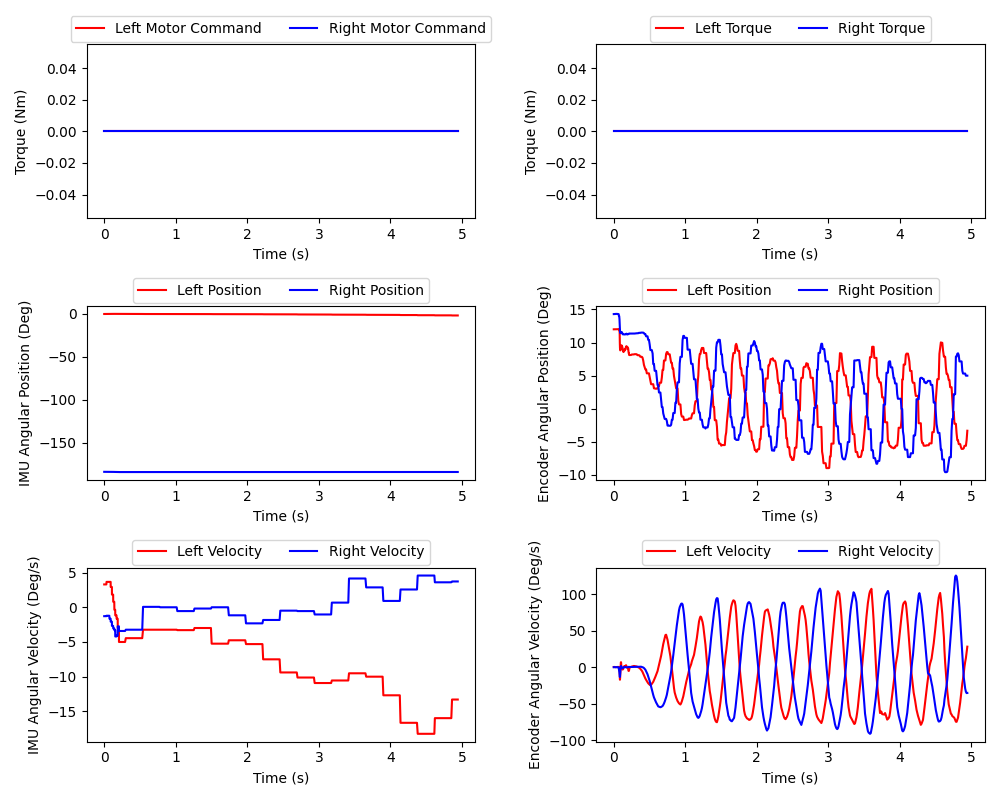
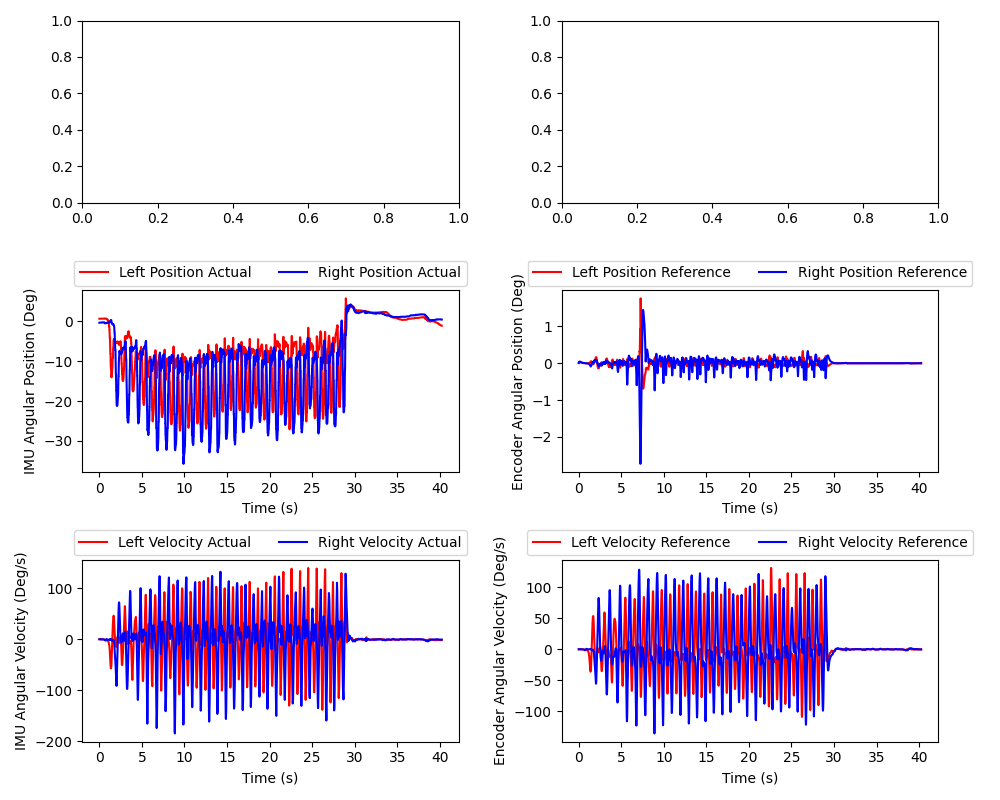
update all

diff --git a/plot_figs_leo.py b/plot_figs_leo.py
@@ -8,7 +8,7 @@ from math import *
 # file_path = 'IMU_reading/imu_Serial_Python/imu_data.csv' 
 # file_path = 'RL_Controller_torch/imu_data.csv' 
 # file_path = 'data/imu_comparison.csv'  
-file_path = 'data/Leo/Without_IMU/Zhimin/'
+file_path = 'data/Leo/Without_IMU/Zhimin/20241211-120727-Zhimin-Walk-S0x75-Trail02.csv'  
 
 # Initialize lists for each column
 time = []
@@ -18,13 +18,13 @@ L_cmd = []
 R_cmd = []
 R_IMU_angle = []
 L_IMU_angle = []
-L_IMU_vel = []
-R_IMU_vel = []
-L_encoder = []
-R_encoder = []
-L_encoder_vel = []
-R_encoder_vel = []
-R_est_torque  = []
+L_IMU_Vel = []  
+R_IMU_Vel = []  
+L_Ref_Ang = []   
+R_Ref_Ang = []   
+L_Ref_Vel = []   
+R_Ref_Vel = []   
+Peak  = []
 
 # Read the CSV file
 with open(file_path, 'r') as csvfile:
@@ -35,65 +35,64 @@ with open(file_path, 'r') as csvfile:
     
     # Extract data row by row
     for row in csvreader:
-        time.append(float(row[0]))    
-        L_IMU_angle.append(float(row[1])) 
-        R_IMU_angle.append(float(row[2])) 
-        L_IMU_vel.append(float(row[3])) 
-        R_IMU_vel.append(float(row[4])) 
-        L_encoder.append(float(row[5]))
-        R_encoder.append(float(row[6]))
-        L_encoder_vel.append(float(row[7]))
-        R_encoder_vel.append(float(row[8]))    
-        L_cmd.append(-1 * float(row[9]))     
-        R_cmd.append(float(row[10]))
-        L_torque.append(float(row[11]))
-        R_torque.append(float(row[12]))
+        print("length :", len(row))
+        time.append(float(row[11]))    
+        L_IMU_angle.append(float(row[0])) 
+        R_IMU_angle.append(float(row[1]))   
+        L_IMU_Vel.append(float(row[2])) 
+        R_IMU_Vel.append(float(row[3])) 
+        L_cmd.append(-1 * float(row[4]))     
+        R_cmd.append(float(row[5]))
+        L_Ref_Ang.append(float(row[6]))
+        R_Ref_Ang.append(float(row[7]))
+        L_Ref_Vel.append(float(row[8]))
+        R_Ref_Vel.append(float(row[9]))    
 
 # Create subplots
 fig, axs = plt.subplots(3, 2, figsize=(10, 8))
 
-#R_est_torque = 0.35*6.4*9.81*sin(R_encoder)
+#Peak = 0.35*6.4*9.81*sin(R_Ref_Ang)
 
-# Plotting the data
-axs[0, 0].plot(time, L_cmd, label='Left Motor Command', color='red') 
-axs[0, 0].plot(time, R_cmd, label='Right Motor Command', color='blue') 
-# axs[0, 0].set_title('Left Limb')    
-axs[0, 0].legend(loc='upper center', bbox_to_anchor=(0.5, 1.20), ncol=2) 
-axs[0, 0].set_xlabel('Time (s)')  
-axs[0, 0].set_ylabel('Torque (Nm)')  
+# # Plotting the data
+# axs[0, 0].plot(time, L_cmd, label='Left Motor Command', color='red') 
+# axs[0, 0].plot(time, R_cmd, label='Right Motor Command', color='blue') 
+# # axs[0, 0].set_title('Left Limb')    
+# axs[0, 0].legend(loc='upper center', bbox_to_anchor=(0.5, 1.20), ncol=2) 
+# axs[0, 0].set_xlabel('Time (s)')  
+# axs[0, 0].set_ylabel('Torque (Nm)')  
 
-# axs[0, 1].plot(time, R_cm, label='Right Motor Command', color='red')
-axs[0, 1].plot(time, L_torque, label='Left Torque', color='red')
-axs[0, 1].plot(time, R_torque, label='Right Torque', color='blue')
-# axs[0, 1].set_title('Right Limb')     
-axs[0, 1].legend(loc='upper center', bbox_to_anchor=(0.5, 1.20), ncol=2) 
-axs[0, 1].set_xlabel('Time (s)')  
-axs[0, 1].set_ylabel('Torque (Nm)')  
+# # axs[0, 1].plot(time, R_cm, label='Right Motor Command', color='red')
+# axs[0, 1].plot(time, L_cmd, label='Left Torque', color='red')
+# axs[0, 1].plot(time, R_cmd, label='Right Torque', color='blue')
+# # axs[0, 1].set_title('Right Limb')     
+# axs[0, 1].legend(loc='upper center', bbox_to_anchor=(0.5, 1.20), ncol=2) 
+# axs[0, 1].set_xlabel('Time (s)')  
+# axs[0, 1].set_ylabel('Torque (Nm)')  
 
-axs[1, 0].plot(time, L_IMU_angle, label='Left Position', color='red')
-axs[1, 0].plot(time, R_IMU_angle, label='Right Position', color='blue')
+axs[1, 0].plot(time, L_IMU_angle, label='Left Position Actual', color='red')  
+axs[1, 0].plot(time, L_Ref_Ang, label='Left Position Reference', color='blue')
 # axs[1, 0].set_title('Angular Position (IMU)')
 axs[1, 0].legend(loc='upper center', bbox_to_anchor=(0.5, 1.20), ncol=2) 
 axs[1, 0].set_xlabel('Time (s)')  
 axs[1, 0].set_ylabel('IMU Angular Position (Deg)')   
 
-axs[1, 1].plot(time, L_encoder, label='Left Position', color='red')
-axs[1, 1].plot(time, R_encoder, label='Right Position', color='blue')
+axs[1, 1].plot(time, R_IMU_angle, label='Right Position Reference', color='red')
+axs[1, 1].plot(time, R_Ref_Ang, label='Right Position Reference', color='blue')
 # axs[1, 1].set_title('Angular Position (encoder)') 
 # axs[1, 1].set_title('Angular Position (IMU)')
 axs[1, 1].legend(loc='upper center', bbox_to_anchor=(0.5, 1.20), ncol=2) 
-axs[1, 1].set_xlabel('Time (s)')  
-axs[1, 1].set_ylabel('Encoder Angular Position (Deg)')      
+axs[1, 1].set_xlabel('Time (s)')   
+axs[1, 1].set_ylabel('Encoder Angular Position (Deg)')       
 
-axs[2, 0].plot(time, L_IMU_vel, label='Left Velocity', color='red')
-axs[2, 0].plot(time, R_IMU_vel, label='Right Velocity', color='blue')
+axs[2, 0].plot(time, L_IMU_Vel, label='Left Velocity Actual', color='red')
+axs[2, 0].plot(time, L_Ref_Vel, label='Left Velocity Reference', color='blue')  
 # axs[2, 0].set_title('Angular Velocity (IMU)') 
 axs[2, 0].legend(loc='upper center', bbox_to_anchor=(0.5, 1.20), ncol=2) 
 axs[2, 0].set_xlabel('Time (s)')  
 axs[2, 0].set_ylabel('IMU Angular Velocity (Deg/s)')      
 
-axs[2, 1].plot(time, L_encoder_vel, label='Left Velocity', color='red')
-axs[2, 1].plot(time, R_encoder_vel, label='Right Velocity', color='blue')
+axs[2, 1].plot(time, R_IMU_Vel, label='Left Velocity Reference', color='red')
+axs[2, 1].plot(time, R_Ref_Vel, label='Right Velocity Reference', color='blue')
 # axs[2, 1].set_title('Angular Velocity (encoder)')
 # axs[2, 1].legend() 
 axs[2, 1].legend(loc='upper center', bbox_to_anchor=(0.5, 1.20), ncol=2) 

diff --git a/filter_process.py b/filter_process.py
@@ -1,0 +1,74 @@
+import numpy as np
+from math import pi, tan, sin, cos
+
+def butterworth_filter(data, cutoff, fs, order=4, filter_type='low'):
+    """
+    实现 Butterworth 滤波器
+    :param data: 输入信号
+    :param cutoff: 截止频率（Hz）
+    :param fs: 采样率（Hz）
+    :param order: 滤波器阶数
+    :param filter_type: 滤波器类型，'low' 为低通，'high' 为高通
+    :return: 滤波后的信号
+    """
+    # 归一化截止频率
+    nyquist = 0.5 * fs
+    normalized_cutoff = cutoff / nyquist
+
+    # 预包络变换 (Pre-warping)
+    omega = tan(pi * normalized_cutoff)
+
+    # 计算滤波器系数 (Butterworth 特性)
+    poles = []
+    for k in range(order):
+        angle = (2 * k + 1) * pi / (2 * order)
+        poles.append(complex(-omega * sin(angle), omega * cos(angle)))
+
+    # 系数计算 (差分方程)
+    a = [1.0]
+    for p in poles:
+        a = np.convolve(a, [1.0, -2.0 * p.real, abs(p)**2])
+
+    b = [omega**order]  # 滤波器增益
+
+    # 数字化滤波器（双线性变换）
+    if filter_type == 'high':
+        a = a[::-1]
+        b = [-b[0] if i % 2 else b[0] for i in range(len(a))]
+
+    a = np.real(a).tolist()
+    b = np.real(b).tolist()
+
+    # 滤波计算（IIR Filter）
+    y = np.zeros_like(data)
+    x = np.array(data)
+
+    for i in range(len(data)):
+        y[i] = sum(b[j] * x[i - j] for j in range(len(b)) if i - j >= 0) \
+             - sum(a[j] * y[i - j] for j in range(1, len(a)) if i - j >= 0)
+    return y
+
+
+# 测试代码
+if __name__ == "__main__":
+    import matplotlib.pyplot as plt
+
+    # 模拟输入信号
+    fs = 1000  # 采样率
+    t = np.linspace(0, 1, fs, endpoint=False)  # 时间
+    input_signal = np.sin(2 * pi * 5 * t) + 0.5 * np.sin(2 * pi * 50 * t)  # 5 Hz + 50 Hz
+
+    # Butterworth 滤波器应用
+    cutoff = 50 # 截止频率 (Hz)
+    filtered_signal = butterworth_filter(input_signal, cutoff, fs, order=4, filter_type='low')
+
+    # 绘图
+    plt.figure(figsize=(10, 6))
+    plt.plot(t, input_signal, label='Original Signal')
+    plt.plot(t, filtered_signal, label='Filtered Signal', color='red')
+    plt.xlabel('Time (s)')
+    plt.ylabel('Amplitude')
+    plt.legend()
+    plt.title('Butterworth Low-pass Filter')
+    plt.grid()
+    plt.show()

diff --git a/RL_controller_tmech/DNN_torch.py b/RL_controller_tmech/DNN_torch.py
@@ -56,10 +56,12 @@ class DNN:
         self.n_first = n_first
         self.n_second = n_second
         self.n_third = n_third
+        
         self.b = np.array([0.0730, 0, -0.0730])
         self.a = np.array([1.0000, -1.8486, 0.8541])
         #self.b = np.array([0.0336,    0.0671,    0.0336])
         #self.a = np.array([1.0000,   -1.4190,    0.5533])
+        
         self.x_L = np.zeros(3)
         self.y_L = np.zeros(3)
         self.x_R = np.zeros(3)
@@ -158,6 +160,7 @@ class DNN:
         # self.qHr_L, self.qHr_R = self.out_third
         # self.out_1 = np.array([self.qHr_L, self.qHr_R])
 
+        # filter 
         self.x_L[1:3] = self.x_L[0:2]
         self.x_L[0] = self.qHr_L
         self.y_L[1:3] = self.y_L[0:2]

diff --git a/RL_controller_tmech/utils.py b/RL_controller_tmech/utils.py
@@ -12,7 +12,7 @@ counter      = 0
 
 nn_mode      = 1  
 kcontrol     = 0.25      # 1.0 for walking, 1.5 para running. 2 para climbing.  
-max_cmd      = 8.0    
+max_cmd      = 8.0       
 ref_type     = 1
 
 torque_scale = 20.0   
